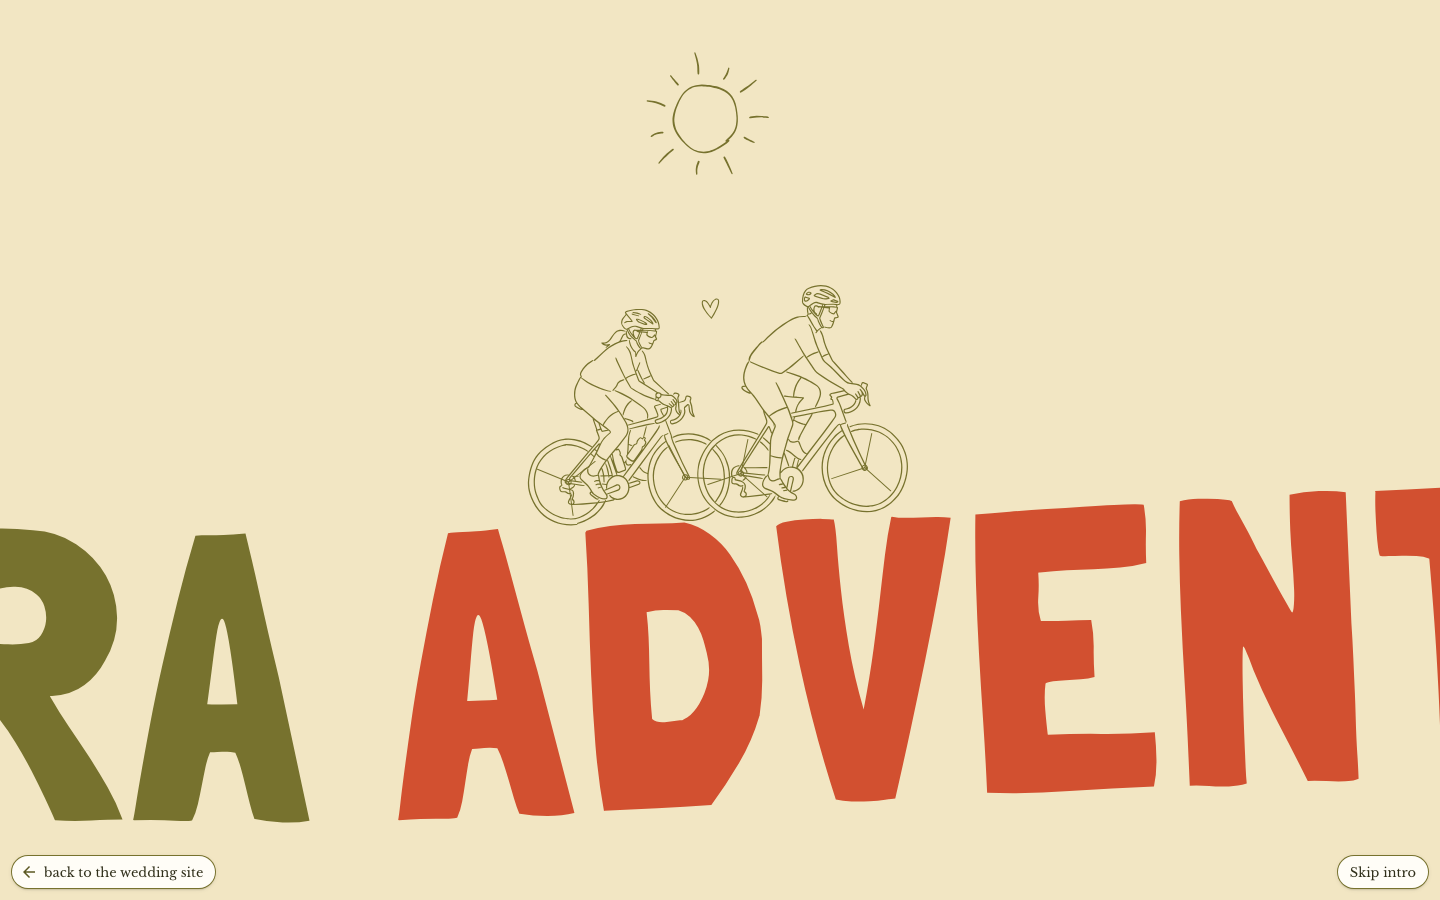
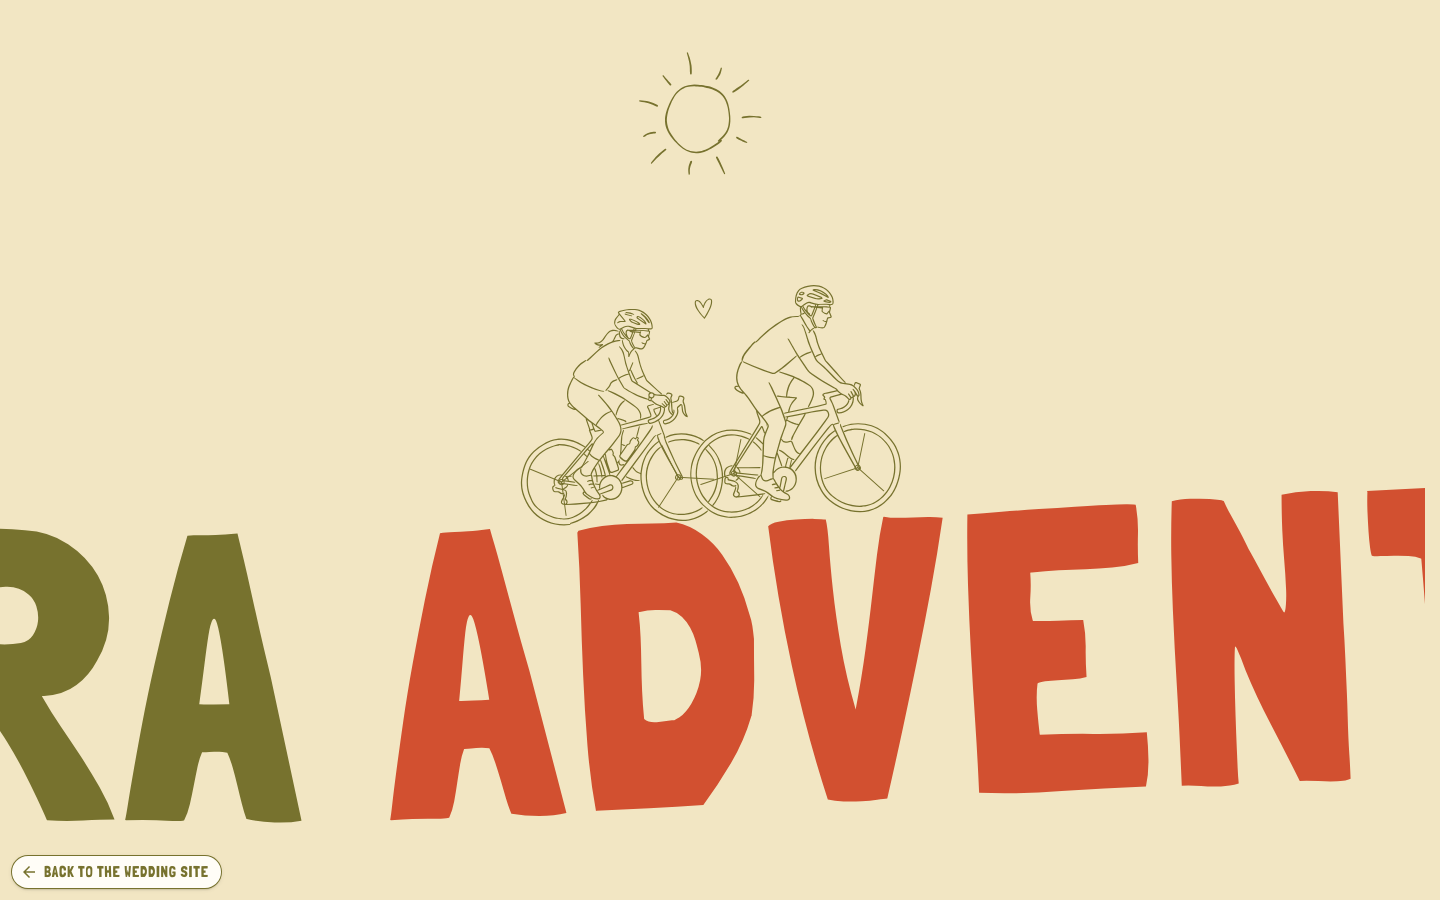
extra-adventures: build record for the no-cancel override, kept screenshots re-captured
build.md gains "Owner override: no cancel": each item, the evidence, the
chip's measured contrast, and what each kind of guest gets. The four files in
shots-kept/ are re-captured with the restyled chip and no Skip intro button.

Claude-Session: https://claude.ai/code/session_011YXNDRsRbJvaQ9FYdoDuAQ

diff --git a/docs/review/2026-11-12-extra-adventures-load-animation/build.md b/docs/review/2026-11-12-extra-adventures-load-animation/build.md
@@ -1,6 +1,6 @@
 # Build hand-back: extra-adventures content, photos, load animation
 
-Built 2026-11-12 by the build engineer, alone (no subagents). The panel reviewed `dd03df3` and found no P1; its fix pass is the last section here. Where that section and an earlier line disagree, the fix pass is the current state.
+Built 2026-11-12 by the build engineer, alone (no subagents). The panel reviewed `dd03df3` and found no P1; its fix pass and then Robby's override follow as later sections. Where sections disagree, the latest one is the current state.
 
 ## Commits (`9e102af..9014297`, plus the record commits)
 
@@ -11,6 +11,7 @@ Built 2026-11-12 by the build engineer, alone (no subagents). The panel reviewed
 | `5c16558` | Part 3: load animation, sun, back chip, `build_sun.py`, `tests/` |
 | `1d78316` | Fix pass: Eng items 1 to 9, UX items 11 to 16 |
 | `9014297` | Fix pass item 10: `artifacts/index.html` regenerated |
+| `cac021c` | Owner override: the intro plays through; back chip restyled |
 
 Live: all three are on https://robbybro.com/artifacts/extra-adventures/ . Parts 1 and 2 were live by 8:02pm; Part 3 was live at 8:04pm on 2026-11-12, about 100 seconds after the commit (the `git-push` job, then GitHub Pages), and the served page is byte-identical to the committed `index.html` (158,372 bytes). `shots/live-*.png` are from the live URL.
 
@@ -153,3 +154,57 @@ Not changed, by instruction: the chip stays visible over content, the bikes ride
 - The Day Trips lead, the classic-scrollbar overhang (with script), the 2048 px Granite Mountain file, the stale index card and the untracked `shots/` are all dealt with above.
 - The probe counts are 286, 8 and 11, not 154 and 6.
 - `index.html` is 161 KB.
+
+## Owner override: no cancel (2026-11-13)
+
+Robby: "if a user scrolls down, it cancels the animation. I don't think we let them cancel it. Let's have it play through every time they refresh." This reverses the brief's "scroll, tap or key finishes it" (acceptance point 3.5) and the UX seat's Skip intro control (fix pass item 11). Commit `cac021c`.
+
+Live: `cac021c` was on https://robbybro.com/artifacts/extra-adventures/ at 10:45am on 2026-11-13, about four and a half minutes after the commit; the served page is byte-identical to the committed `index.html` (162,546 bytes).
+
+| # | Item | Result | What was done, and the evidence |
+|---|---|---|---|
+| 1 | Remove every user-input cancel path and the Skip intro button | Done | The `wheel`, `touchstart`, `pointerdown` and `keydown` listeners, the scroll-ends-it branch, the button, its styles and its right safe-area inset are gone. Probe: four keys, pointer, mouse, touch, wheel and click events and a scripted scroll leave it running |
+| 2 | No scrolling under the veil; no shift when the scrollbar returns; wheel spin only afterwards | Done | `html.opening { overflow: hidden; overscroll-behavior: none; scroll-behavior: auto }`, `touch-action: none` on the veil, and the scroll handler puts anything that gets past them back at 0. `scrollbar-gutter: stable` on `html`. Probe at 700 px with a real 15px scrollbar: the page is 685px wide locked and at rest and the subtitle does not move. Probe: the page is at scroll 0 at every held moment; afterwards it scrolls and the wheels turn |
+| 3 | Every refresh plays it in full from the top; bfcache | Done | The head script sets `history.scrollRestoration = "manual"` whenever the animation will play, and `start()` scrolls to 0. Probe: scrolled to 1500, reloaded, back at 0 with the animation playing, 5.95 s to rest. A bfcache restore (Back from another page) is left showing the page as it was, at its old scroll position, with no replay: replaying would throw someone who came Back to mid-page up to the top and hold them there |
+| 4 | Keep the non-user endings | Done | Reduced motion and a #hash link still skip it; the head watchdog and the error path are unchanged. The 9 s cap changed form: see item 5 |
+| 5 | Hidden tab pauses; cap counts visible time; background tab plays from 0 | Done | `tick()` holds the clock while `document.hidden`. The cap is now a timer armed only while the tab is visible, with the visible time carried across pauses, so it no longer needs frames to arrive. Probe: hidden for 4 s mid-run, the title does not move, it carries on when shown and finishes by itself at 10.07 s on the wall. A tab loaded hidden sits on the first frame and plays in full (5.96 s) from the moment it is shown |
+| 6 | Accessibility while locked | Done | The content (`.wrap`) is `inert` from the moment the script takes over until `finish()`. The back chip is outside it and stays focusable and clickable on purpose: it is visible the whole time, and it is the one way to leave. So during the animation Tab reaches the chip and nothing else. Probe: content inert and chip live at every held moment, content live at rest |
+| 7 | Probe | Done | "Ends it" checks replaced by "does not end it, page stays at 0, scrolls afterwards"; added the hidden-tab and background-tab cases and refresh from mid-page; the cap, reduced-motion and font-less cases kept |
+| 8 | build.md | Done | This section |
+| 9 | Back chip dressed like the section chips | Done | Label and arrow in `var(--olive)`, Londrina Solid, uppercase, `.05em` letter-spacing, 15px, on `var(--paper)`, honey with ink text on hover and press: the same six computed values as `nav.jump a` (probe compares them). Kept: fixed bottom left, 32px, 44px target, safe-area insets, focus ring, 1px boundary |
+
+Chip contrast, measured by the probe from computed colors:
+
+| Theme | Label | Boundary on the page | Boundary on a card and against its own fill | Label on hover (ink on honey) |
+|---|---|---|---|---|
+| Light | 4.88:1 | 3.99:1 | 4.88:1 | 7.20:1 |
+| Dark | 7.42:1 | 5.71:1 | 4.88:1 | 1.52:1 |
+
+The dark hover figure fails 4.5:1. It is the section chips' own hover (`nav.jump a:hover`), copied as asked; the color was not changed. Nothing in the page turns the dark theme on.
+
+### Also changed in this pass
+
+- **A held `?intro-t=` frame is released after 9 s.** With no way to dismiss it, a held frame would otherwise hide the page for good. Probe: released at 9.05 s.
+- **The classic-scrollbar overhang is now fixed in CSS in Chrome.** With `scrollbar-gutter: stable` Chrome's `100vw` no longer includes the gutter, so the title fits at 700 px without `fit()` stepping in.
+
+### What a guest gets
+
+| Guest | What happens |
+|---|---|
+| Opens or refreshes the page | About 6 s of animation over a page-colored veil. Scrolling, tapping and keys do nothing; only the back chip works. Then the page |
+| Arrives on a link to a section (`#day-trips`) | No animation; the page opens at that section |
+| Has reduced motion turned on | No animation, ever; the resting header |
+| Comes Back to the page from another site | Usually the page exactly as they left it, no animation (the browser's back cache). If the browser reloads it instead, the animation plays from the top |
+| Switches tabs during it | It waits and carries on when they return |
+| Clicks a link in the last second, while the bikes roll in | Nothing: the page is visible by then but stays locked and inert until the bikes stop |
+| On a connection so slow that the page's own HTML takes more than 4 s | The head watchdog lifts the veil and the animation does not play on that load |
+
+### Tests
+
+`python3 artifacts/extra-adventures/tests/run.py`, about 105 s: **320 passed, 0 failed**; under forced reduced motion **8 passed, 0 failed**; with Google Fonts unreachable **11 passed, 0 failed**. Two consecutive runs on the final code, the second after the commit.
+
+### Not verified
+
+The scroll lock on a real iPhone or Android phone (reasoned from `overflow: hidden` on the root plus `touch-action: none` on the veil; the scroll handler is the backstop). A real user wheel or touch scroll cannot be synthesized in the probe; it asserts the lock's computed style and that a scripted scroll is put back. `inert` needs Safari 15.5, Chrome 102 or Firefox 112; on older browsers focus can go behind the veil.
+
+`shots-kept/` was re-captured after this pass.
